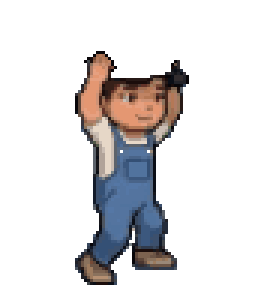
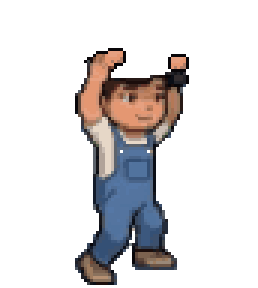
WIP: paint hands back into held frames, front-hands layer data

Changed region(s): [[0.4031, 0.1562, 0.4961, 0.25], [0.6512, 0.1875, 0.7442, 0.25]]

diff --git a/games/pumpkin-patch/make_ansel_frames.py b/games/pumpkin-patch/make_ansel_frames.py
@@ -121,6 +121,39 @@ NUDGE = {}
 # The frame the dizzy frame is built from.
 DIZZY_FROM = 'pick_1'
 
+# Hands painted back in. Where the sheet's pumpkin was, his hands were drawn over it and
+# went with it (WebP smears the pumpkin's orange into them), leaving arms that end in stubs.
+# Each entry is the centre of a chunky mitt, in art px of the frame's cut (the --dump view,
+# before line-up), read off the frames: at the end of each arm, on the pumpkin's side or
+# top. Everyday hands are skin; farmer hands are his brown gloves. The farmer's pick, tug
+# and heave frames kept most of their gloves, so only the frames that lost them get new ones.
+HANDS = {
+    ('everyday', 'pick_3'):  [(44, 63), (42, 75)],
+    ('everyday', 'tug_1'):   [(53, 68), (43, 74)],
+    ('everyday', 'tug_2'):   [(58, 60), (52, 63)],
+    ('everyday', 'heave'):   [(50, 38), (49, 44)],
+    ('everyday', 'heavy_1'): [(46, 43), (49, 62)],
+    ('everyday', 'heavy_2'): [(41, 44), (45, 61)],
+    ('everyday', 'carry_1'): [(28, 26), (53, 28)],
+    ('everyday', 'carry_2'): [(22, 26), (43, 28)],
+    ('everyday', 'carry_3'): [(19, 26), (41, 28)],
+    ('everyday', 'carry_4'): [(18, 26), (43, 28)],
+    ('everyday', 'carry_6'): [(21, 26), (48, 28)],
+    ('farmer', 'heavy_1'):   [(41, 45)],
+    ('farmer', 'heavy_2'):   [(43, 44)],
+    ('farmer', 'carry_1'):   [(29, 24), (56, 26)],
+    ('farmer', 'carry_2'):   [(27, 25), (52, 26)],
+    ('farmer', 'carry_3'):   [(28, 25), (55, 26)],
+    ('farmer', 'carry_6'):   [(26, 26), (52, 27)],
+}
+# A mitt, 5 x 4 art px inside its outline, centred on the spot: o outline, L/M/D light, mid and
+# shadow (lit from the top left like the rest of him), the bottom row hinting at fingers.
+MITT = ['.ooooo.', 'oLLLLMo', 'oLLLMMo', 'oMMMMDo', 'oMDMDDo', '.ooooo.']
+HAND_RAMP = {
+    'everyday': [(230, 160, 128), (228, 151, 114), (174, 124, 102)],   # his skin, from face and arms
+    'farmer': [(157, 123, 94), (124, 98, 79), (108, 85, 70)],          # his gloves
+}
+
 
 # ── helpers ──────────────────────────────────────────────────────────────────
 def hsv(rgb):
@@ -361,6 +394,52 @@ def repair(fr, ink, dark):
     fr['outline'] = edge
 
 
+def paint_hands(fr, pal, ink, dark):
+    """Paint mitts at the frame's HANDS spots, and work out its front layer: the hands the
+    game draws over its own pumpkin (the mitts, and for the farmer the gloves the frame kept)."""
+    f = fr['f']
+    idx, on = fr['idx'], fr['on']
+    H, W = on.shape
+    ramp = nearest(pal, np.array(HAND_RAMP[f['outfit']], float))
+    front = np.zeros_like(on)
+    ring = np.zeros_like(on)
+    spots = HANDS.get((f['outfit'], f['name']), [])
+    for cx, cy in spots:
+        x0, y0 = cx - 3, cy - 3
+        foot = np.zeros_like(on)
+        cells = []
+        for j, row in enumerate(MITT):
+            for i, ch in enumerate(row):
+                y, x = y0 + j, x0 + i
+                if ch != '.' and 0 <= y < H and 0 <= x < W:
+                    foot[y, x] = True
+                    cells.append((y, x, ch))
+        # where the mitt meets his arm (skin or glove, not outline) there's no line: it runs on
+        arm = on & ~dark[idx] & ~foot
+        joins = ndimage.binary_dilation(arm, PLUS) & foot
+        for y, x, ch in cells:
+            if ch == 'o' and joins[y, x]:
+                idx[y, x] = ramp[1]
+            elif ch == 'o':
+                idx[y, x] = ink
+                ring[y, x] = True
+            else:
+                idx[y, x] = ramp['LMD'.index(ch)]
+            on[y, x] = True
+            front[y, x] = True
+    fr['hand_spots'] = list(spots)
+    if f['outfit'] == 'farmer':
+        # gloves the frame kept over the pumpkin go in front too, with their outline
+        kept = drop_small(fr['frontmask'] & on, 12) & ~front
+        kept |= ndimage.binary_dilation(kept, PLUS) & on & dark[idx]
+        front |= kept
+    # in the front layer each mitt is outlined all round (it sits on the pumpkin, not the arm)
+    fidx = idx.copy()
+    fidx[front & ~ring & ndimage.binary_dilation(~front, PLUS) & ~dark[idx]] = ink
+    fr['front'] = front if front.any() else None
+    fr['front_idx'] = fidx
+
+
 # ── pixel stars for the dizzy frame ──────────────────────────────────────────
 STAR = ['..o..', '.oyo.', 'oyYyo', '.oyo.', '..o..']
 
@@ -422,10 +501,22 @@ def main():
             temps = [t for t in frames if t['f']['outfit'] == f['outfit'] and t['f']['name'].startswith('walk_')]
             restore_head(fr, temps, ink)
         repair(fr, ink, cls['dark'])
+        paint_hands(fr, pal, ink, cls['dark'])
         b = fr['art']['body']
         if b.any() and f['hold'] in ('bottom', 'center'):
             ys, xs = np.nonzero(b)
             fr['pbox'] = dict(top=ys.min(), bottom=ys.max() + 1, left=xs.min(), right=xs.max() + 1)
+
+    if '--dump' in sys.argv:   # debugging: the repaired frames before anchoring
+        d = sys.argv[sys.argv.index('--dump') + 1]
+        os.makedirs(d, exist_ok=True)
+        np.save(os.path.join(d, 'palette.npy'), pal)
+        for fr in frames:
+            if fr['art']:
+                np.savez(os.path.join(d, f"{fr['f']['outfit']}_{fr['f']['name']}.npz"), idx=fr['idx'], on=fr['on'],
+                         gone=fr['gone'], body=fr['art']['body'], hull=fr['art']['hull'], front=fr['frontmask'])
+            elif fr['f']['name'] in ('walk_1', 'pick_1', 'toss'):
+                np.savez(os.path.join(d, f"{fr['f']['outfit']}_{fr['f']['name']}.npz"), idx=fr['idx'], on=fr['on'])
 
     # anchors: feet at the bottom of the biggest piece, body centre at the overalls
     for fr in frames:
@@ -440,7 +531,8 @@ def main():
     # derived: dizzy (standing frame + stars over his head)
     for outfit in ('everyday', 'farmer'):
         base = next(fr for fr in frames if fr['f']['outfit'] == outfit and fr['f']['name'] == DIZZY_FROM)
-        frames.append(dict(base, f=dict(base['f'], name='dizzy', hold=None), front=None, pbox=None, stars=True))
+        frames.append(dict(base, f=dict(base['f'], name='dizzy', hold=None), front=None, pbox=None, hand_spots=None,
+                           stars=True))
 
     # one canvas for every frame, anchor (feet, body centre) at the same spot
     ext = [0, 0, 0, 0]  # left, right, up, down (art px from the anchor)
@@ -464,10 +556,11 @@ def main():
         f = fr['f']
         ox, oy = int(round(FX - fr['ax'])), int(FY - fr['ay'])
 
-        def place(mask):
+        def place(mask, idx=None):
+            idx = fr['idx'] if idx is None else idx
             canvas = np.zeros((CH, CW, 4), np.uint8)
             ys, xs = np.nonzero(mask)
-            canvas[ys + oy, xs + ox] = pal8[fr['idx'][ys, xs]]
+            canvas[ys + oy, xs + ox] = pal8[idx[ys, xs]]
             return canvas
 
         body = place(fr['on'])
@@ -487,6 +580,15 @@ def main():
             info['hold'] = {'x': round(float(px) * SCALE, 1), 'y': round(float(py) * SCALE, 1),
                             'w': int(b['right'] - b['left']) * SCALE, 'h': int(b['bottom'] - b['top']) * SCALE,
                             'anchor': f['hold']}
+        if fr.get('front') is not None and f.get('hold') in ('bottom', 'center'):
+            # his hands over the pumpkin: the game draws this layer above its own pumpkin
+            front = place(fr['front'], fr['front_idx'])
+            save(front, os.path.join(OUT, f['outfit'], f['name'] + '_front.png'))
+            written.append((key + '_front', front))
+            info['front'] = True
+        if fr.get('hand_spots') and f.get('hold') in ('bottom', 'center'):
+            info['hands'] = [[round(float(cx + 0.5 + ox - FX) * SCALE, 1), round(float(FY - (cy + 0.5 + oy)) * SCALE, 1)]
+                             for cx, cy in fr['hand_spots']]
         meta['frames'][key] = info
     meta = json.loads(json.dumps(meta, default=int))
     with open(os.path.join(OUT, 'frames.json'), 'w') as fh:
